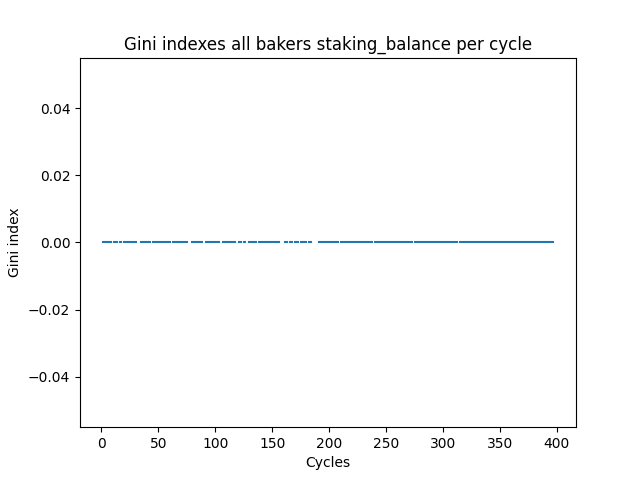
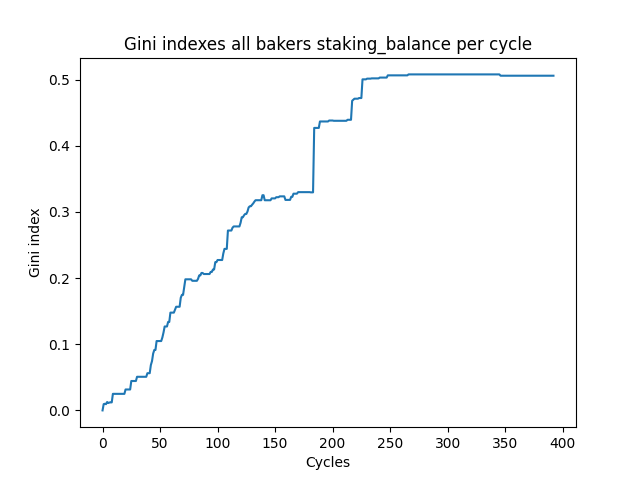
Add gini index baker stakings

diff --git a/tezos_blocks_dbread.py b/tezos_blocks_dbread.py
@@ -19,7 +19,6 @@ def get_reward_over_5cyclesfromx():
 
 def get_reward_per_cycle_baker(cycle_num):
     rewards_list = []
-    # rewards = cur.execute('SELECT reward FROM blocks where cycle=? GROUP BY cycle,baker', (cycle_num,)).fetchall()
     rewards = cur.execute('SELECT reward FROM blocks where cycle=? GROUP BY cycle,baker', (cycle_num,)).fetchall()[0]
     for re in rewards:
         rewards_list.append(re)
@@ -181,31 +180,24 @@ def compute_gini_all_delegates_rewards(rewards):
     return
 
 
-def get_staking_balance_per_cycle_baker(cycle):
-    staking_list = []
-    stakings = cur.execute('SELECT staking_balance from baker_staking_cycles where cycle=? GROUP BY cycle,baker', (cycle,)).fetchall()
-    print('stakings', stakings)
-    for stake in stakings:
-        staking_list.append(stake)
-    return staking_list
-
-
 def compute_gini_all_bakers_staking_per_cycle():
-    baker_per_cycle_gini_indexes_stakes = []
-    staking_list = []
-    cycles = list(range(num_cycles))
-    for cycle in cycles:
-        staking_list.append(get_staking_balance_per_cycle_baker(cycle))
-    for stake in staking_list:
-        baker_per_cycle_gini_indexes_stakes.append(compute_gini_index_rewards(stake))
-    print('gini indexes stakes',baker_per_cycle_gini_indexes_stakes)
-    return baker_per_cycle_gini_indexes_stakes
+    gini_indexes_list = []
+    stakes = []
+    baker_address_list = get_baker_addresses()
+    for baker in baker_address_list:
+        stake = cur.execute('SELECT staking_balance FROM baker_staking_cycles WHERE baker=? GROUP BY cycle, baker', (baker,)).fetchall()
+        for s in stake:
+            stakes.append(s[0])
+        np.asarray(stakes)
+        gini = calculate_gini_index(stakes)
+        gini_indexes_list.append(gini)
+    return gini_indexes_list
 
 
 def plot_gini_indexes_all_bakers_per_cycle():
     gini_indexes_all_bakers_rewards = compute_gini_all_bakers_per_cycle()
     y_data_length = len(gini_indexes_all_bakers_rewards)
-    # TODO: check that x_data and y_data have equal length
+    # ensure that x_data and y_data have same length (can be different due to extracting it at different times)
     x_data = list(range(0, y_data_length))
     y_data = gini_indexes_all_bakers_rewards
     plt.plot(x_data, y_data)
@@ -219,7 +211,8 @@ def plot_gini_indexes_all_bakers_per_cycle():
 
 def plot_gini_indexes_all_bakers_staking_balance_per_cycle():
     gini_indexes_all_bakers_staking = compute_gini_all_bakers_staking_per_cycle()
-    x_data = list(range(0, num_cycles))
+    y_data_length = len(gini_indexes_all_bakers_staking)
+    x_data = list(range(0, y_data_length))
     y_data = gini_indexes_all_bakers_staking
     plt.plot(x_data, y_data)
     plt.title('Gini indexes all bakers staking_balance per cycle')
@@ -275,8 +268,8 @@ if __name__ == '__main__':
     total_rewards_per_bakers = cur.execute('SELECT total_rewards_earned from accounts').fetchall()
     gini_index_totalrew_per_baker = compute_gini_index_rewards(total_rewards_per_bakers)
 
-    plot_gini_indexes_all_bakers_per_cycle()  # This takes a while, to debug the rest uncomment this
-    # plot_gini_indexes_all_bakers_staking_balance_per_cycle() # TODO: check this still an error there
+    # plot_gini_indexes_all_bakers_per_cycle()  # This takes a while, to debug the rest uncomment this
+    plot_gini_indexes_all_bakers_staking_balance_per_cycle()
     # plot_gini_indexes_all_delegators_per_cycle() # TODO: check and fix this
     # plot_delegates_all_cycles() # TODO: check this
     cur.close()
